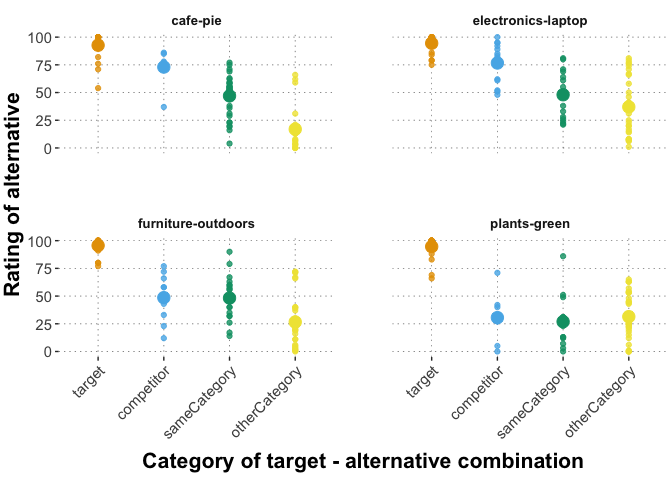
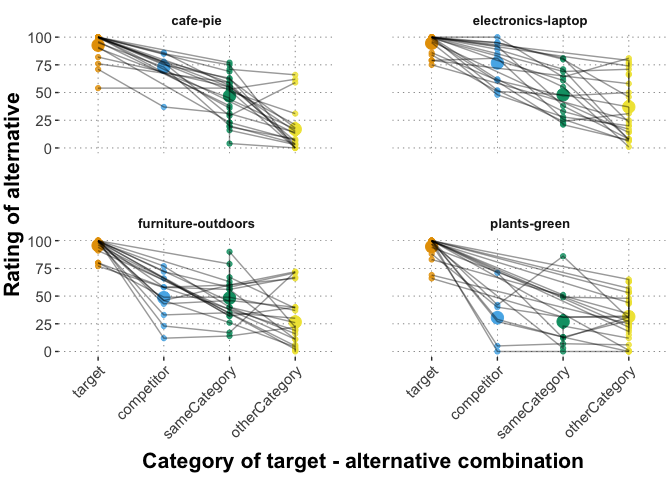
add by-subj by-trial lines

diff --git a/data+analysis/04_pilot3_prior_elicitation_analysis..md b/data+analysis/04_pilot3_prior_elicitation_analysis..md
@@ -87,10 +87,10 @@ as expected.
     ## # A tibble: 4 × 6
     ##   itemName               n empirical_stat ci_lower  mean ci_upper
     ##   <chr>              <int>          <dbl>    <dbl> <dbl>    <dbl>
-    ## 1 cafe-pie              20           92.7     86.3  92.8     97.5
-    ## 2 electronics-laptop    20           94.5     90.2  94.5     98.0
-    ## 3 furniture-outdoors    20           95.6     91.9  95.6     98.7
-    ## 4 plants-green          20           94.6     89.2  94.6     98.8
+    ## 1 cafe-pie              20           92.7     86.7  92.8     97.6
+    ## 2 electronics-laptop    20           94.5     90.6  94.6     98.2
+    ## 3 furniture-outdoors    20           95.6     92.2  95.7     98.7
+    ## 4 plants-green          20           94.6     89.6  94.6     98.7
 
 ## Means
 
@@ -180,7 +180,7 @@ collaping the categories across vignettes.
 ![](04_pilot3_prior_elicitation_analysis._files/figure-gfm/unnamed-chunk-11-1.png)<!-- -->
 
 Below, the responses are plotted by-category by-vignette. While the two
-“good” vignettes (cafe-pie and electronics-laptop) weok well, as
+“good” vignettes (cafe-pie and electronics-laptop) work well, as
 expected, the other two “bad” vignettes show less consistent results.
 ![](04_pilot3_prior_elicitation_analysis._files/figure-gfm/unnamed-chunk-12-1.png)<!-- -->
 
@@ -197,6 +197,7 @@ df_clean_main_long %>%
   ggplot(., aes(x = answerType, y = response, fill = answerType, color = answerType)) +
   geom_point() +
   geom_point(data = df_clean_main_long_byItem_summary, aes(x = answerType, y = mean_response), size = 4) +
+  geom_line(data = df_clean_main_long, inherit.aes=F, aes(x = answerType, y = response, group = by_trial_nr), alpha  = 0.4) +
   facet_wrap(itemName~targetOption) +
   theme(axis.text.x = element_text(angle = 45, hjust = 1)) +
   theme(strip.text.x = element_text(size = 10)) +
@@ -220,22 +221,22 @@ ratings to means across vignettes). For a better picture, bootstrapped
     ## # Groups:   targetOption [4]
     ##    targetOption  answerType        n empirical_stat ci_lower  mean ci_upper
     ##    <chr>         <chr>         <int>          <dbl>    <dbl> <dbl>    <dbl>
-    ##  1 competitor    competitor       20           96.7     93.5  96.7     99.4
-    ##  2 competitor    itemQuestion     20           56.7     42.9  56.9     69.0
-    ##  3 competitor    otherCategory    20           27.1     17.4  27.1     37.6
-    ##  4 competitor    sameCategory     20           40.0     28.9  40.1     50.9
-    ##  5 itemQuestion  competitor       20           62.4     52.2  62.5     72.5
-    ##  6 itemQuestion  itemQuestion     20           95.5     91.7  95.5     98.6
-    ##  7 itemQuestion  otherCategory    20           28.6     18.7  28.7     39.6
-    ##  8 itemQuestion  sameCategory     20           45.8     37.1  45.9     54.7
-    ##  9 otherCategory competitor       20           31.5     21.4  31.5     42.0
-    ## 10 otherCategory itemQuestion     20           32.3     21.4  32.2     43.3
-    ## 11 otherCategory otherCategory    20           92.8     88.4  92.9     97.2
-    ## 12 otherCategory sameCategory     20           30.6     21.8  30.7     41.2
-    ## 13 sameCategory  competitor       20           43.8     34.4  43.9     54.1
-    ## 14 sameCategory  itemQuestion     20           47.4     38.6  47.3     56  
-    ## 15 sameCategory  otherCategory    20           24.3     14.6  24.4     35.2
-    ## 16 sameCategory  sameCategory     20           92.5     85.9  92.4     97.5
+    ##  1 competitor    competitor       20           96.7     93.7  96.7     99.3
+    ##  2 competitor    itemQuestion     20           56.7     44.3  56.6     67.8
+    ##  3 competitor    otherCategory    20           27.1     17.4  27.3     38.4
+    ##  4 competitor    sameCategory     20           40.0     29.1  40.1     50.7
+    ##  5 itemQuestion  competitor       20           62.4     51.9  62.5     73.0
+    ##  6 itemQuestion  itemQuestion     20           95.5     91.5  95.5     98.8
+    ##  7 itemQuestion  otherCategory    20           28.6     17.9  28.3     39.3
+    ##  8 itemQuestion  sameCategory     20           45.8     37.3  45.8     54.7
+    ##  9 otherCategory competitor       20           31.5     21.6  31.9     42.3
+    ## 10 otherCategory itemQuestion     20           32.3     22.6  32.4     43.3
+    ## 11 otherCategory otherCategory    20           92.8     88.4  92.8     96.8
+    ## 12 otherCategory sameCategory     20           30.6     20.8  30.7     40.4
+    ## 13 sameCategory  competitor       20           43.8     34.3  43.9     53.7
+    ## 14 sameCategory  itemQuestion     20           47.4     38.7  47.2     55.4
+    ## 15 sameCategory  otherCategory    20           24.3     15.0  24.1     33.9
+    ## 16 sameCategory  sameCategory     20           92.5     86.2  92.5     97.3
 
     ## # A tibble: 16 × 6
     ##    targetOption  answerType    mean_response response_category target_…¹ respo…²
